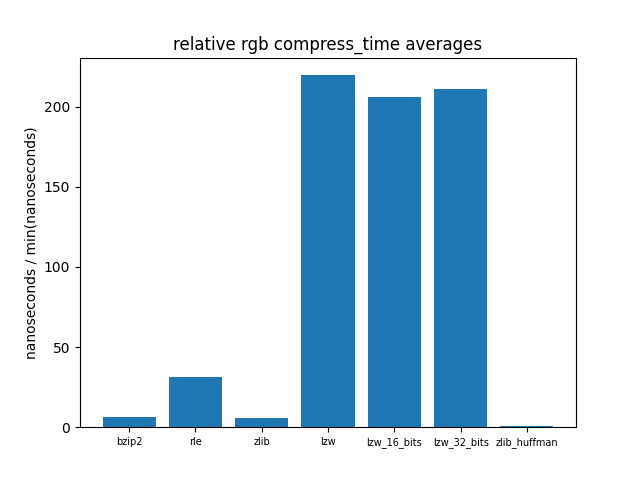
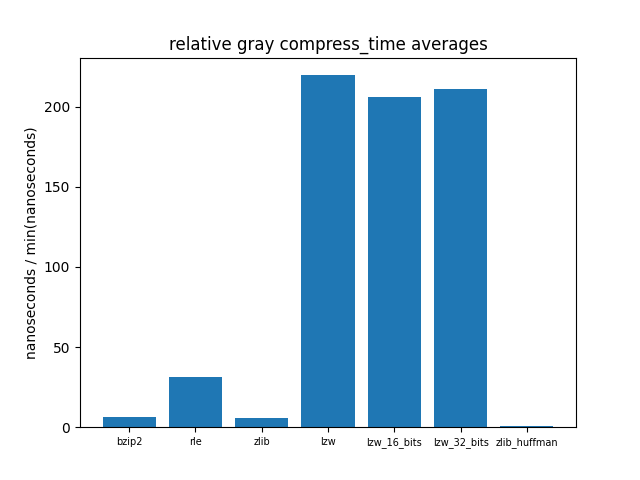
adds fixed label graphs

Changed region(s): [[0.25, 0.0625, 0.75, 0.125]]

diff --git a/analysis.py b/analysis.py
@@ -173,6 +173,6 @@ for i, metric in enumerate(["compress_time", "decompress_time", "compression_rat
     plt.rc("xtick", labelsize=7)
     plt.bar(algos, values / min(values))
     plt.ylabel(f"{units[metric]} / min({units[metric]})")
-    plt.title("relative rgb " + metric + " averages")
+    plt.title("relative gray " + metric + " averages")
     plt.savefig(f"./results/graphs/relative_average_gray_{metric}.png")
     plt.clf()
